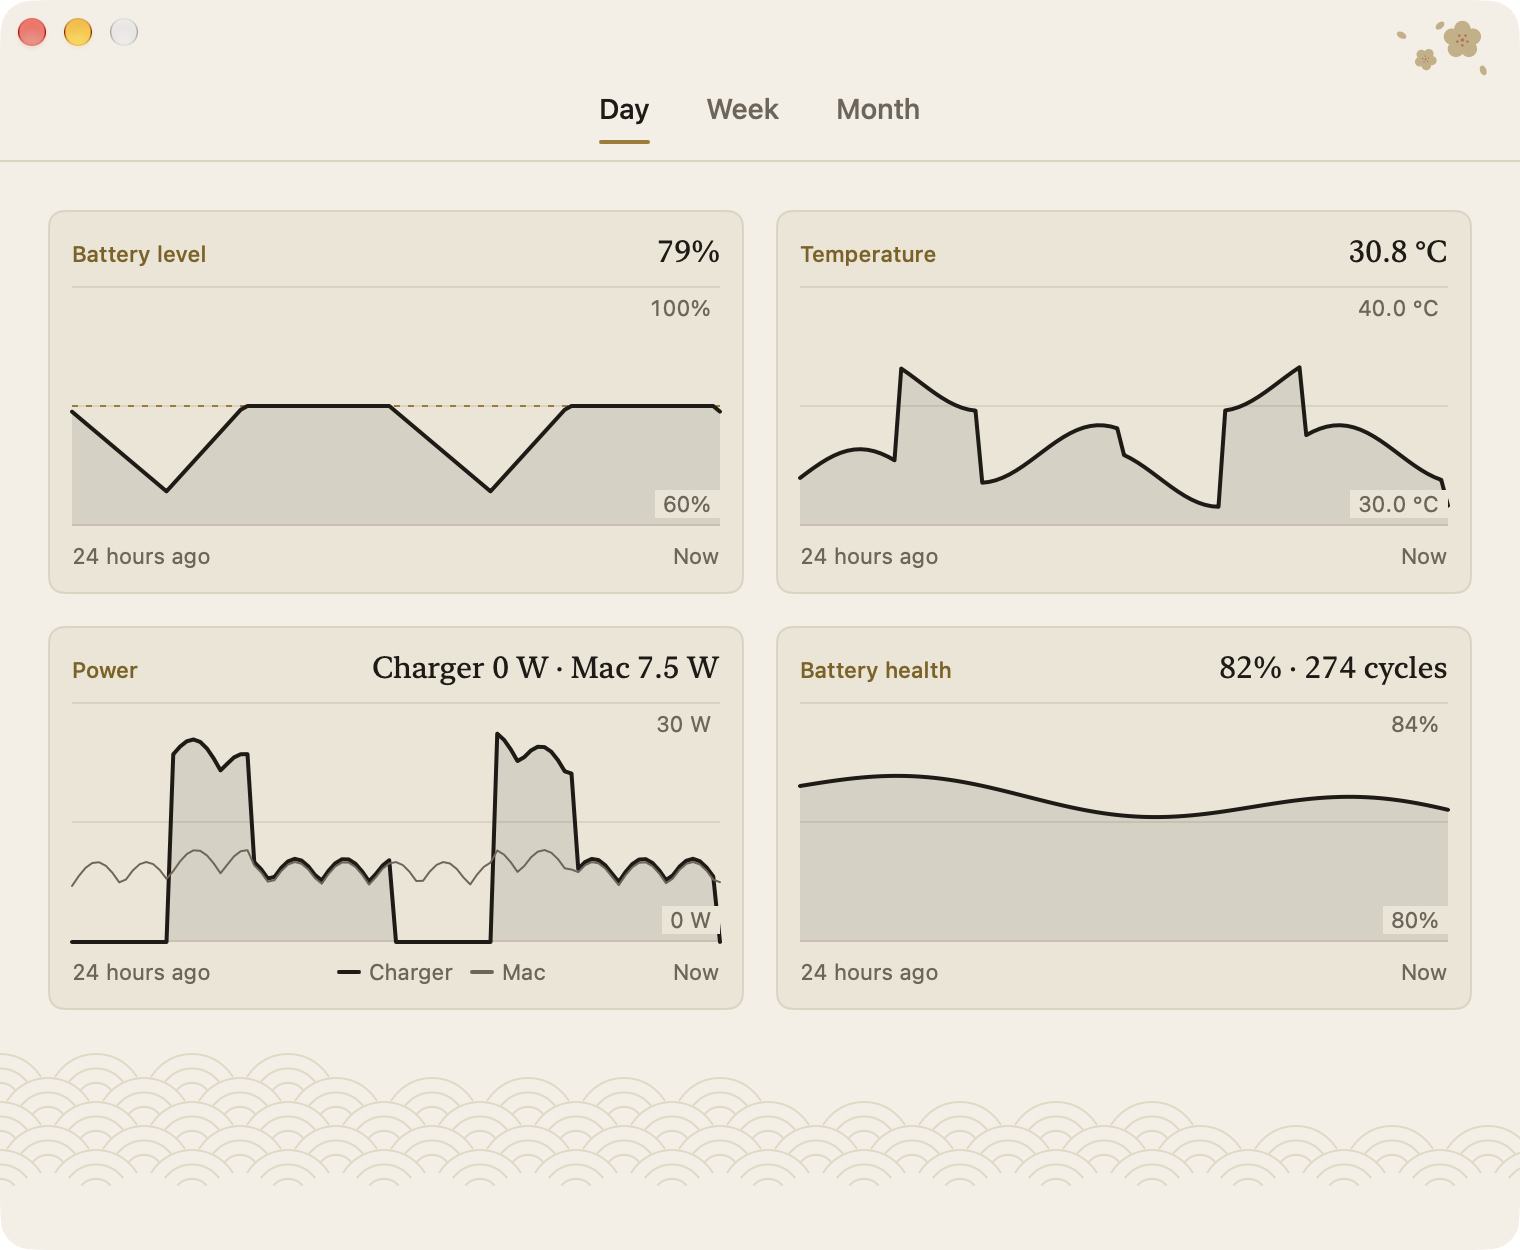
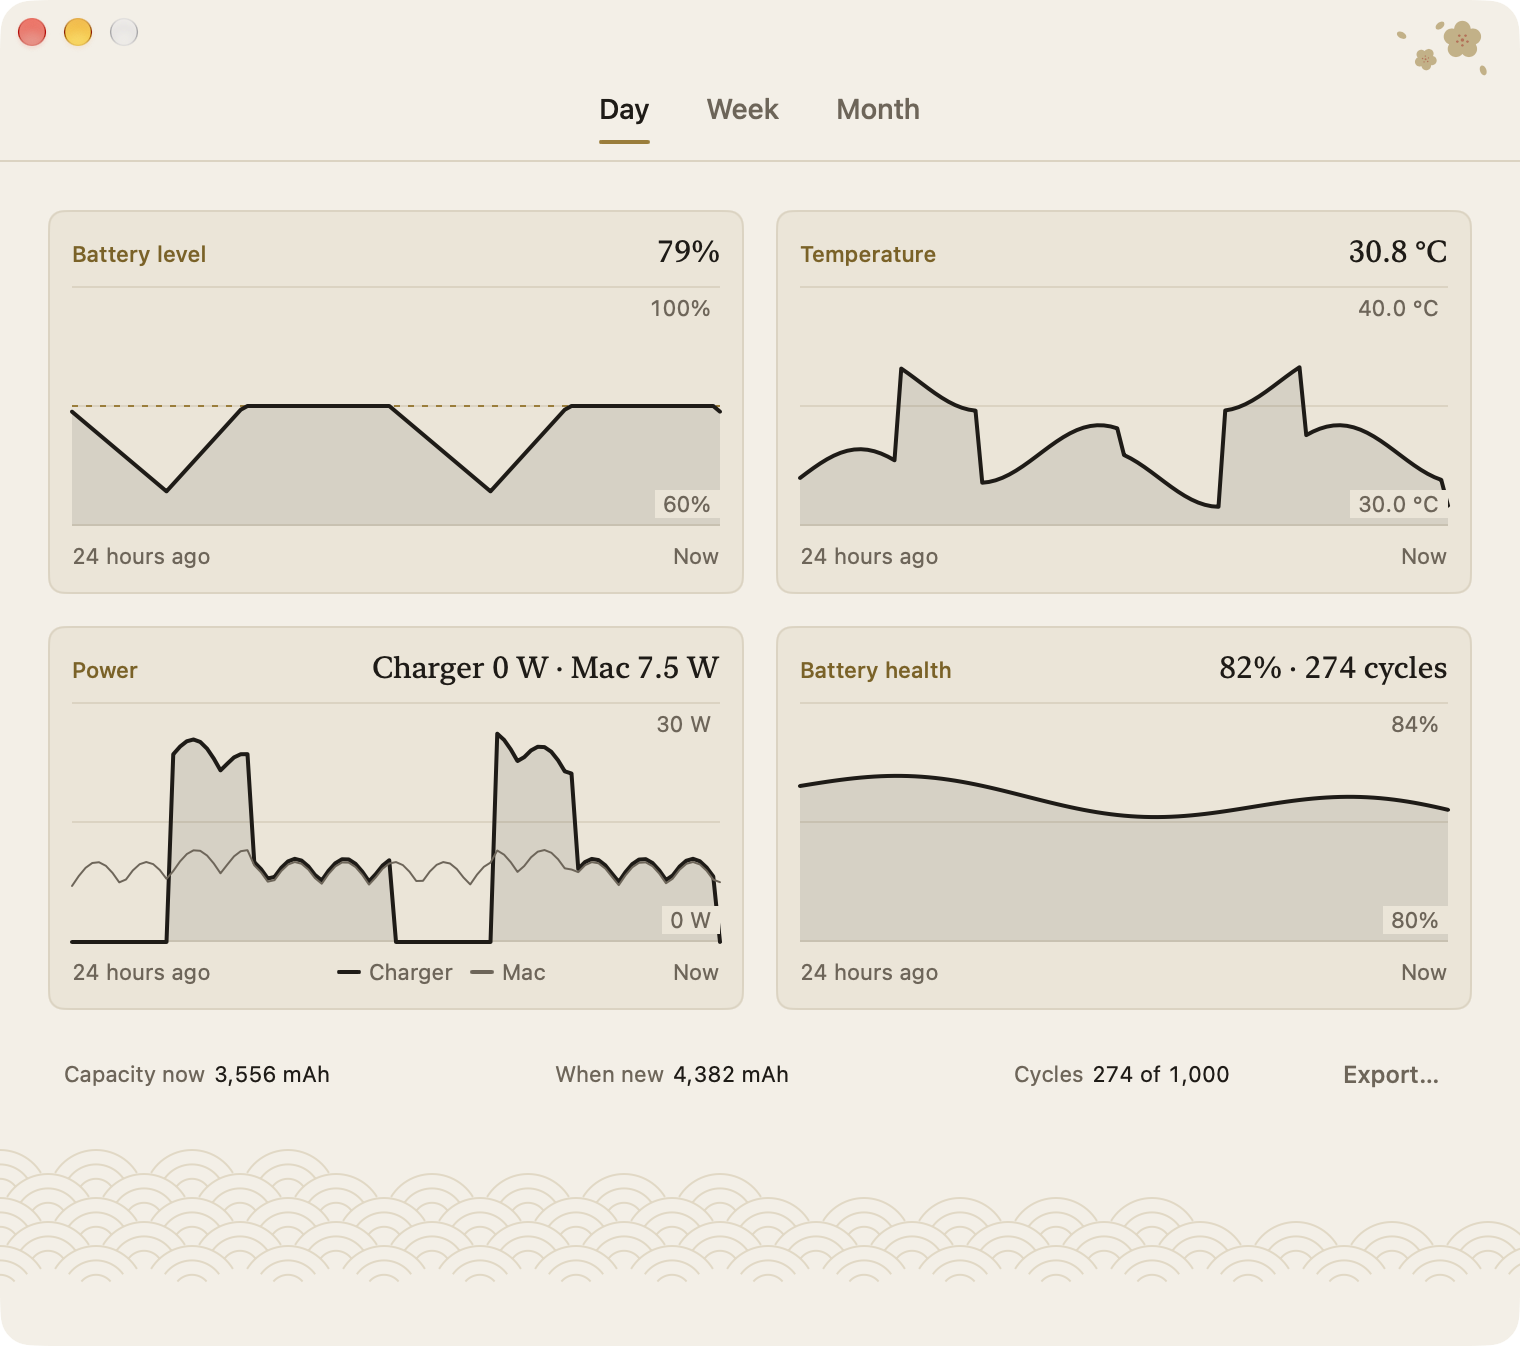
See how long charging will take, why the battery drains on a weak charger, the battery's capacity, and export the history
- While charging, the status says about how long to the limit.
- A charger at its limit while the battery drains is named as the reason.
- History lists capacity now, when new, and cycles out of the design count.
- History has Export…, which saves everything recorded as CSV.

diff --git a/Sources/HachibuKit/BatteryReading.swift b/Sources/HachibuKit/BatteryReading.swift
@@ -18,6 +18,11 @@ public struct BatteryReading: Equatable, Sendable {
     /// The most the connected charger can supply, as it reports itself to
     /// the Mac. nil off the charger, or when the charger does not say.
     public var chargerRatingWatts: Int?
+    /// The number of cycles the battery is built for, as it reports itself.
+    public var designCycles: Int?
+    /// Minutes until the battery is full, as macOS estimates it while
+    /// charging. nil when it has no estimate.
+    public var minutesToFull: Int?
     /// Watts the Mac is using.
     public var systemWatts: Double?
     /// macOS is charging to 100% on its own to keep its estimates accurate.
@@ -26,7 +31,8 @@ public struct BatteryReading: Equatable, Sendable {
     public init(percent: Int, isPluggedIn: Bool, currentMA: Int, voltageMV: Int? = nil,
                 temperatureC: Double? = nil, cycleCount: Int? = nil, rawMaxCapacityMAh: Int? = nil,
                 designCapacityMAh: Int? = nil, chargerWatts: Double? = nil, systemWatts: Double? = nil,
-                fullChargeOverride: Bool = false, chargerRatingWatts: Int? = nil) {
+                fullChargeOverride: Bool = false, chargerRatingWatts: Int? = nil, minutesToFull: Int? = nil,
+                designCycles: Int? = nil) {
         self.percent = min(max(percent, 0), 100)
         self.isPluggedIn = isPluggedIn
         self.currentMA = currentMA
@@ -37,6 +43,8 @@ public struct BatteryReading: Equatable, Sendable {
         self.designCapacityMAh = designCapacityMAh
         self.chargerWatts = chargerWatts
         self.chargerRatingWatts = chargerRatingWatts
+        self.minutesToFull = minutesToFull
+        self.designCycles = designCycles
         self.systemWatts = systemWatts
         self.fullChargeOverride = fullChargeOverride
     }
@@ -55,6 +63,39 @@ public struct BatteryReading: Equatable, Sendable {
     public var healthPercent: Int? {
         guard let raw = rawMaxCapacityMAh, let design = designCapacityMAh, design > 0, raw > 0 else { return nil }
         return min(Int((Double(raw) / Double(design) * 100).rounded()), 100)
+    }
+
+    /// Minutes of charging left until `target` percent. To 100% it is
+    /// macOS's own estimate, which knows how charging slows near the top.
+    /// To a limit below that it is worked out from the measured current,
+    /// which holds steady that far down. nil when not charging, when the
+    /// target is reached, or when a value is missing.
+    public func minutesToReach(_ target: Int) -> Int? {
+        guard isCharging, percent < target else { return nil }
+        if target >= 100 { return minutesToFull }
+        guard let capacity = rawMaxCapacityMAh else { return nil }
+        let missing = Double(target - percent) / 100 * Double(capacity)
+        return max(Int((missing / Double(currentMA) * 60).rounded()), 1)
+    }
+
+    /// The charger is giving all it can and the battery is still being
+    /// used: the Mac needs more than this charger supplies.
+    public var chargerCannotKeepUp: Bool {
+        guard isPluggedIn, let rating = chargerRatingWatts, let from = chargerWatts else { return false }
+        return currentMA < -Self.chargingThresholdMA && from >= Double(rating) * 0.85
+    }
+
+    /// The battery's capacity and wear in its own numbers, as label and
+    /// value pairs. A number the battery does not report is left out.
+    public var capacityDetails: [(label: String, value: String)] {
+        var details: [(label: String, value: String)] = []
+        let number: (Int) -> String = { $0.formatted(.number.grouping(.automatic).locale(Locale(identifier: "en_US"))) }
+        if let now = rawMaxCapacityMAh { details.append(("Capacity now", "\(number(now)) mAh")) }
+        if let new = designCapacityMAh { details.append(("When new", "\(number(new)) mAh")) }
+        if let cycles = cycleCount {
+            details.append(("Cycles", designCycles.map { "\(number(cycles)) of \(number($0))" } ?? number(cycles)))
+        }
+        return details
     }
 
     /// Watts into the battery. Negative while it discharges.
@@ -117,13 +158,19 @@ public enum BatteryStatus: Equatable, Sendable {
     }
 
     /// The measured power, next to the status. A missing value is a dash, never a false 0.
-    public func detail(for reading: BatteryReading) -> String {
+    /// `target` is the level the battery is charging toward: the limit
+    /// macOS holds, or 100 with no limit.
+    public func detail(for reading: BatteryReading, target: Int? = nil) -> String {
         switch self {
         case .onBattery:
             let out = reading.systemWatts ?? reading.batteryWatts.map(abs)
             return "\(Watts.text(out)) out"
         case .usingBattery:
-            return "\(Watts.text(reading.batteryWatts.map(abs))) from battery, charger connected"
+            let fromBattery = Watts.text(reading.batteryWatts.map(abs))
+            if reading.chargerCannotKeepUp, let rating = reading.chargerRatingWatts {
+                return "\(rating) W charger at its limit, \(fromBattery) from battery"
+            }
+            return "\(fromBattery) from battery, charger connected"
         case .fullChargeByMacOS:
             return "macOS is charging past your limit to keep its estimates accurate"
         case .calibrating(let step):
@@ -134,7 +181,12 @@ public enum BatteryStatus: Equatable, Sendable {
             }
         case .pausedForHeat:
             return "The battery is \(reading.temperatureC.map { String(format: "%.1f °C", $0) } ?? "hot"). Charging waits until it cools"
-        case .charging, .holdingAtLimit, .fullyCharged, .notCharging, .toppingUp, .sailing:
+        case .charging, .toppingUp:
+            let watts = "\(Watts.text(reading.chargerWatts)) from charger"
+            let goal = self == .toppingUp ? 100 : min(target ?? 100, 100)
+            guard let minutes = reading.minutesToReach(goal) else { return watts }
+            return "\(watts), about \(TimeText.text(minutes: minutes)) to \(goal)%"
+        case .holdingAtLimit, .fullyCharged, .notCharging, .sailing:
             return "\(Watts.text(reading.chargerWatts)) from charger"
         }
     }

diff --git a/Sources/Hachibu/HistoryView.swift b/Sources/Hachibu/HistoryView.swift
@@ -1,3 +1,4 @@
+import AppKit
 import HachibuKit
 import SwiftUI
 
@@ -22,8 +23,9 @@ struct HistoryView: View {
                 .padding(.top, Metric.titleBarInset)
                 .padding(.bottom, Space.sm)
             KitDivider()
-            Group {
+            VStack(spacing: Space.lg) {
                 if data.isEmpty { emptyState } else { charts(data, range) }
+                details(hasData: !data.isEmpty)
             }
             .padding(Space.xxl)
         }
@@ -32,6 +34,38 @@ struct HistoryView: View {
         .task(id: "\(range.rawValue) \(history.revision) \(model.historyLoad)") {
             guard model.historyPreview == .recorded else { return }
             recorded = await history.data(for: range)
+        }
+    }
+
+    /// The battery's own numbers, and a way to take the record elsewhere.
+    private func details(hasData: Bool) -> some View {
+        // A sample page shows made-up numbers, like its charts.
+        let reading = model.historyPreview == .sample
+            ? BatteryReading(percent: 80, isPluggedIn: true, currentMA: 0, cycleCount: 274, rawMaxCapacityMAh: 3_556,
+                             designCapacityMAh: 4_382, designCycles: 1_000)
+            : BatteryMonitor.current?.reading
+        return HStack(spacing: Space.lg) {
+            StatRow(stats: (reading?.capacityDetails ?? []).map { .init(label: $0.label, value: $0.value) })
+            Spacer(minLength: Space.lg)
+            Button("Export…") { exportCSV() }
+                .buttonStyle(.kit(.ghost)).fixedSize()
+                .disabled(!hasData)
+                .help(hasData ? "Save everything recorded as a CSV file" : "Nothing is recorded yet")
+        }
+        .padding(.horizontal, Space.sm)
+    }
+
+    /// Writes every recorded sample to a file the person chooses.
+    private func exportCSV() {
+        guard !Store.isOverridden else { return }
+        let panel = NSSavePanel()
+        panel.nameFieldStringValue = "Hachibu history.csv"
+        panel.allowedContentTypes = [.commaSeparatedText]
+        guard panel.runModal() == .OK, let url = panel.url else { return }
+        let store = history.store
+        Task.detached {
+            let text = HistoryCSV.text(store.samples())
+            try? text.write(to: url, atomically: true, encoding: .utf8)
         }
     }
 

diff --git a/Tests/HachibuKitTests/BatteryTests.swift b/Tests/HachibuKitTests/BatteryTests.swift
@@ -183,3 +183,40 @@ func fullChargeStatus() {
     #expect(!watch.isWarning)
 }
 
+
+@Test("Charging says about how long to the limit, and to 100% it uses macOS's own estimate")
+func timeToLimit() {
+    var charging = reading(69, current: 1_482, charger: 24)
+    charging.rawMaxCapacityMAh = 3_405
+    charging.minutesToFull = 88
+    // 11% of 3405 mAh at 1482 mA is a quarter of an hour.
+    #expect(charging.minutesToReach(80) == 15)
+    #expect(charging.minutesToReach(100) == 88)
+    #expect(BatteryStatus.charging.detail(for: charging, target: 80) == "24 W from charger, about 15 min to 80%")
+    #expect(BatteryStatus.charging.detail(for: charging, target: 100) == "24 W from charger, about 1 h 28 min to 100%")
+    // A Top Up always heads for 100, whatever limit is written down.
+    #expect(BatteryStatus.toppingUp.detail(for: charging, target: 80).hasSuffix("to 100%"))
+    // Nothing is promised without the numbers: at the limit, not charging, or no estimate.
+    #expect(charging.minutesToReach(69) == nil)
+    #expect(reading(60).minutesToReach(80) == nil)
+    charging.minutesToFull = nil
+    #expect(BatteryStatus.charging.detail(for: charging, target: 100) == "24 W from charger")
+    #expect(BatteryStatus.holdingAtLimit.detail(for: reading(80), target: 80) == "9.2 W from charger")
+    #expect(TimeText.text(minutes: 120) == "2 h" && TimeText.text(minutes: 0) == "1 min")
+}
+
+@Test("A charger that gives all it can while the battery drains is named as the reason")
+func weakCharger() {
+    var busy = reading(60, current: -900, charger: 29.1, system: 41)
+    busy.chargerRatingWatts = 30
+    #expect(busy.chargerCannotKeepUp)
+    #expect(BatteryStatus.usingBattery.detail(for: busy) == "30 W charger at its limit, 11 W from battery")
+    // macOS draining toward a limit: the charger is barely used, so it is not blamed.
+    var draining = reading(85, current: -600, charger: 1.2)
+    draining.chargerRatingWatts = 65
+    #expect(!draining.chargerCannotKeepUp)
+    #expect(BatteryStatus.usingBattery.detail(for: draining) == "7.2 W from battery, charger connected")
+    // A charger that does not say what it can supply is not blamed either.
+    busy.chargerRatingWatts = nil
+    #expect(!busy.chargerCannotKeepUp)
+}

diff --git a/Tests/HachibuKitTests/HistoryTests.swift b/Tests/HachibuKitTests/HistoryTests.swift
@@ -256,3 +256,28 @@ func chargerRating() {
     #expect(PowerFlow(reading).chargerRating == nil && PowerFlow(reading).chargerLabel == "Charger")
     #expect(PowerFlow(nil).chargerLabel == "Charger")
 }
+
+@Test("The record exports as a table: oldest first, UTC times, and an empty cell for what was not recorded")
+func historyCSV() {
+    let first = Date(timeIntervalSince1970: 1_800_000_000)
+    let samples = [HistorySample(time: first.addingTimeInterval(60), percent: 61, isPluggedIn: false, isCharging: false,
+                                 temperatureC: nil, chargerWatts: 0, macWatts: 7.25, limit: 100),
+                   HistorySample(time: first, percent: 60, isPluggedIn: true, isCharging: true, temperatureC: 31.46,
+                                 chargerWatts: 28.4, macWatts: 7, limit: 80)]
+    let lines = HistoryCSV.text(samples).split(separator: "\n").map(String.init)
+    #expect(lines.count == 3)
+    #expect(lines[0] == HistoryCSV.header)
+    #expect(lines[1] == "2027-01-15T08:00:00Z,60,yes,yes,31.5,28.4,7.0,80")
+    #expect(lines[2] == "2027-01-15T08:01:00Z,61,no,no,,0.0,7.2,100")
+    #expect(HistoryCSV.text([]) == HistoryCSV.header + "\n")
+}
+
+@Test("The battery's own numbers are listed, and one it does not report is left out")
+func capacityDetails() {
+    let full = BatteryReading(percent: 80, isPluggedIn: true, currentMA: 0, cycleCount: 276, rawMaxCapacityMAh: 3_405,
+                              designCapacityMAh: 4_382, designCycles: 1_000)
+    #expect(full.capacityDetails.map(\.label) == ["Capacity now", "When new", "Cycles"])
+    #expect(full.capacityDetails.map(\.value) == ["3,405 mAh", "4,382 mAh", "276 of 1,000"])
+    let bare = BatteryReading(percent: 80, isPluggedIn: true, currentMA: 0, cycleCount: 12)
+    #expect(bare.capacityDetails.map(\.value) == ["12"])
+}

diff --git a/Sources/HachibuKit/History.swift b/Sources/HachibuKit/History.swift
@@ -348,3 +348,21 @@ public struct PowerFlow: Equatable, Sendable {
         batteryFeedsMac = (battery ?? 0) < 0
     }
 }
+
+/// What was recorded, as a table other programs can open.
+public enum HistoryCSV {
+    public static let header = "time,level_percent,charger_connected,charging,temperature_c,charger_watts,mac_watts,limit_percent"
+
+    /// One line per sample, oldest first. Times are ISO 8601 in UTC; a value
+    /// that was not recorded is left empty; a limit of 100 means none.
+    public static func text(_ samples: [HistorySample]) -> String {
+        let time = ISO8601DateFormatter()
+        func number(_ value: Double?) -> String { value.map { String(format: "%.1f", $0) } ?? "" }
+        let lines = samples.sorted { $0.time < $1.time }.map { sample in
+            [time.string(from: sample.time), String(sample.percent), sample.isPluggedIn ? "yes" : "no",
+             sample.isCharging ? "yes" : "no", number(sample.temperatureC), number(sample.chargerWatts),
+             number(sample.macWatts), String(sample.limit)].joined(separator: ",")
+        }
+        return ([header] + lines).joined(separator: "\n") + "\n"
+    }
+}

diff --git a/Sources/Hachibu/SystemBattery.swift b/Sources/Hachibu/SystemBattery.swift
@@ -41,6 +41,8 @@ nonisolated enum SystemBattery {
         // none at all, leaves this out.
         let adapter = properties["AdapterDetails"] as? [String: Any] ?? [:]
         let rating = int("Watts", in: adapter).flatMap { $0 > 0 ? $0 : nil }
+        // 65535 is the battery's way of saying it has no estimate.
+        let toFull = int("AvgTimeToFull", in: properties).flatMap { (1..<6_000).contains($0) ? $0 : nil }
         return BatteryReading(
             percent: percent,
             isPluggedIn: pluggedIn,
@@ -53,7 +55,9 @@ nonisolated enum SystemBattery {
             chargerWatts: pluggedIn ? chargerWatts : 0,
             systemWatts: systemWatts,
             fullChargeOverride: fullChargeOverride,
-            chargerRatingWatts: pluggedIn ? rating : nil)
+            chargerRatingWatts: pluggedIn ? rating : nil,
+            minutesToFull: pluggedIn ? toFull : nil,
+            designCycles: int("DesignCycleCount9C", in: properties).flatMap { $0 > 0 ? $0 : nil })
     }
 
     /// Battery health as macOS itself reports it (System Settings > Battery).

diff --git a/Sources/Hachibu/BatteryMonitor.swift b/Sources/Hachibu/BatteryMonitor.swift
@@ -138,7 +138,8 @@ final class BatteryMonitor {
 
     var statusDetail: String? {
         if isWaitingForCharger { return "Waiting for the charger" }
-        if let reading, let status { return status.detail(for: reading) }
+        // Charging heads for the limit macOS holds now, which a mode may have changed.
+        if let reading, let status { return status.detail(for: reading, target: limit.system ?? 100) }
         return hasLoaded ? "This Mac may not have a battery." : nil
     }
 

diff --git a/Sources/HachibuKit/Watts.swift b/Sources/HachibuKit/Watts.swift
@@ -11,3 +11,13 @@ public enum Watts {
         return "\(Int(abs(value).rounded())) W"
     }
 }
+
+/// A length of time in words: "35 min", "1 h 28 min", "2 h".
+public enum TimeText {
+    public static func text(minutes: Int) -> String {
+        let minutes = max(minutes, 1)
+        if minutes < 60 { return "\(minutes) min" }
+        let rest = minutes % 60
+        return rest == 0 ? "\(minutes / 60) h" : "\(minutes / 60) h \(rest) min"
+    }
+}

diff --git a/README.md b/README.md
@@ -64,8 +64,8 @@ Pro features in AlDente; in Hachibu they are part of the app.
 | **Sailing** | Let the battery drift a few percent below the limit before it charges again, instead of topping up all day. |
 | **Heat protection** | Pause charging when the battery is hot (40 °C by default) and resume when it has cooled. |
 | **Calibration** | A guided cycle meant to correct the percentage and health readings: drain to 15%, charge to 100%, rest for two hours. Whether it changes the readings has not been measured yet. |
-| **Power flow** | Watts from the charger, to the Mac, and into or out of the battery, with what the connected charger can supply at most. |
-| **History** | Level, temperature, power, and health over a day, a week, or a month. |
+| **Power flow** | Watts from the charger, to the Mac, and into or out of the battery, with what the connected charger can supply at most, about how long charging will take, and a note when the charger cannot keep up with the Mac. |
+| **History** | Level, temperature, power, and health over a day, a week, or a month, with the battery's capacity now and when new. Everything recorded can be exported as a CSV file. |
 | **Notifications** | When the limit is not holding, when macOS starts a full charge of its own, and when a Top Up or a calibration finishes. Each can be switched off. |
 | **Updates** | Hachibu checks for a newer version once a day and installs it when you agree. Every update is verified against Hachibu's signing key first. The check can be switched off. |
 
